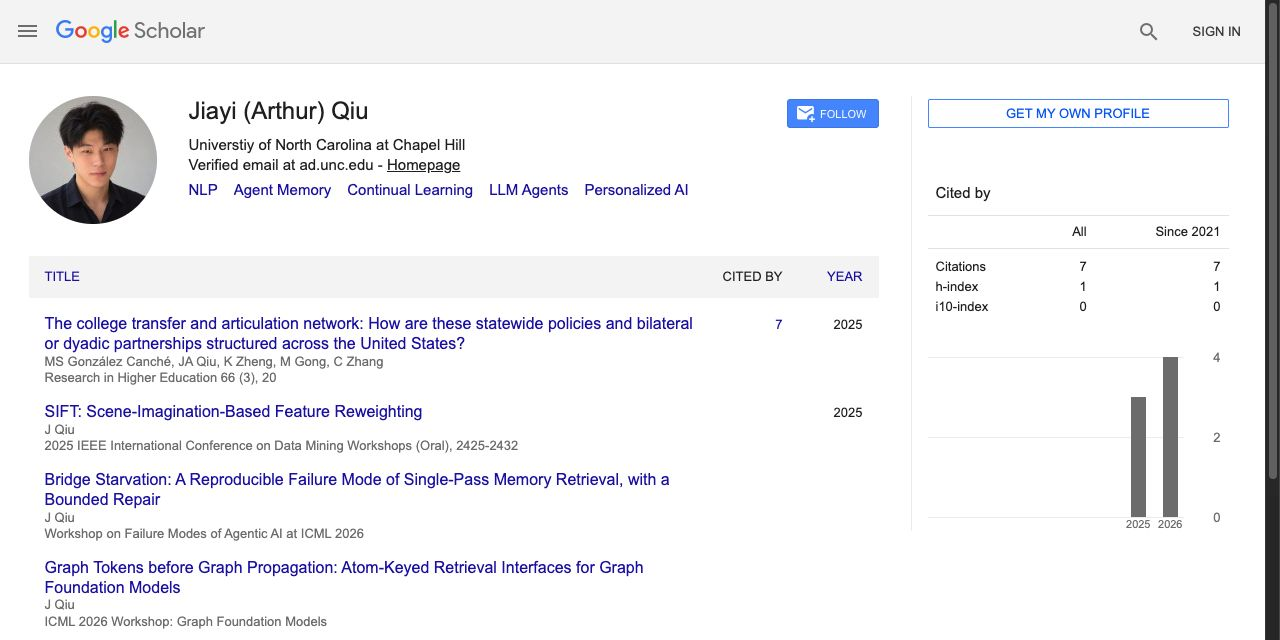
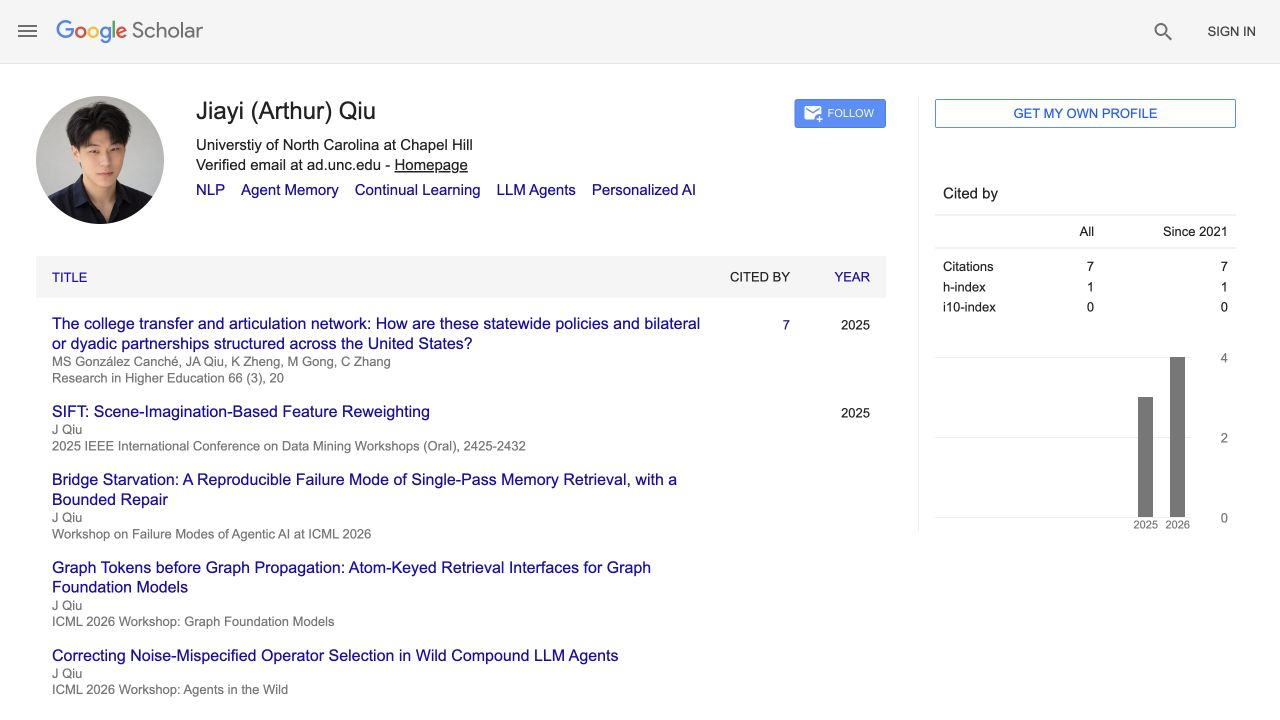
Add the POISE workshop paper and refresh Scholar preview

diff --git a/index.html b/index.html
@@ -59,7 +59,7 @@
             <span class="profile-action" id="open-scholar-profile">View Scholar</span>
           </header>
           <div class="profile-preview">
-            <img src="scholar-page-preview.jpg" width="1280" height="640" decoding="async"
+            <img src="scholar-page-preview.jpg?v=poise" width="1280" height="720" decoding="async"
               alt="Public Google Scholar profile with the publication list and citation panel">
           </div>
         </a>
@@ -124,6 +124,34 @@
                   <li>Rank claims</li>
                   <li>Trace to source</li>
                   <li>Read context</li>
+                  </ol>
+                </figcaption>
+              </figure>
+            </article>
+          </li>
+          <li id="poise">
+            <article class="publication">
+              <div class="paper-copy">
+                <div class="entry-heading">
+                  <h3>Correcting Noise-Mispecified Operator Selection in Wild Compound LLM Agents</h3>
+                  <span class="entry-label">ICML 2026 · Agents in the Wild Workshop</span>
+                </div>
+                <p class="publication-summary">POISE uses Shapley-based comparisons to estimate each operator’s contribution when a compound agent’s outcomes are noisy.</p>
+                <p class="paper-meta">Jiayi Qiu</p>
+                <div class="publication-links">
+                  <a href="https://openreview.net/forum?id=hXWLQWjmNr" aria-label="OpenReview record for POISE">OpenReview</a>
+                  <a href="https://agentwild-workshop.github.io/icml2026/" aria-label="ICML 2026 Agents in the Wild Workshop">Workshop</a>
+                </div>
+              </div>
+              <figure class="paper-media" aria-label="POISE uses marginal comparisons of noisy workflow outcomes to assign operator credit and guide selection.">
+                <object class="paper-figure" data="poise.svg" type="image/svg+xml" aria-hidden="true" tabindex="-1">
+                  <img src="poise.svg" width="560" height="250" alt="">
+                </object>
+                <figcaption>
+                  <ol class="paper-phases" aria-label="Diagram sequence">
+                    <li>Noisy outcomes</li>
+                    <li>Attribute credit</li>
+                    <li>Select operators</li>
                   </ol>
                 </figcaption>
               </figure>
